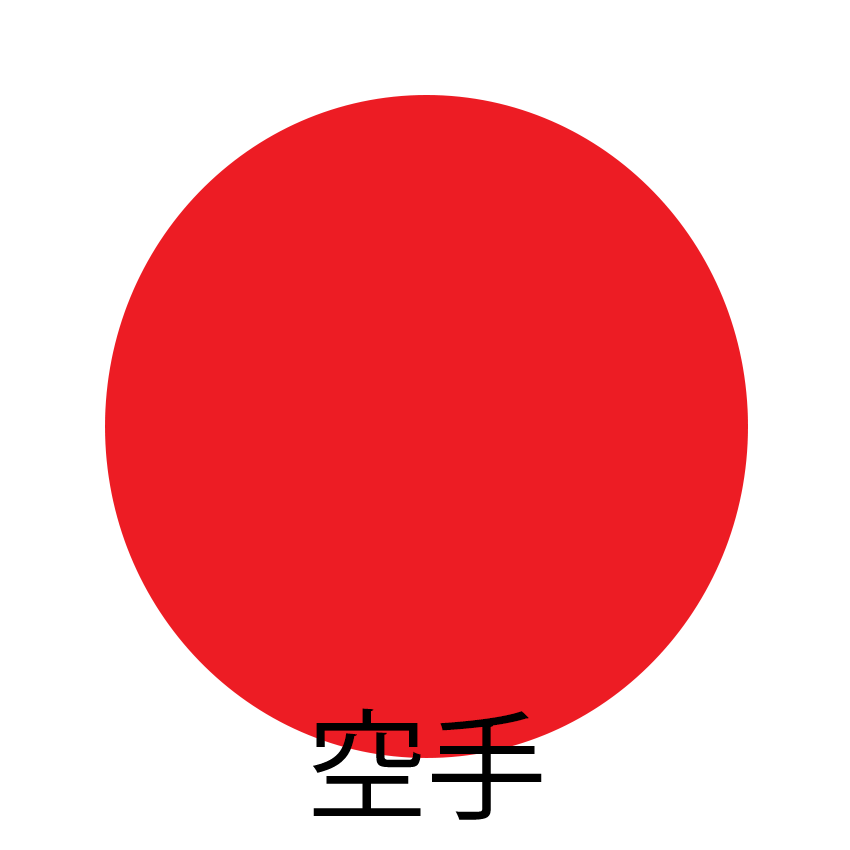
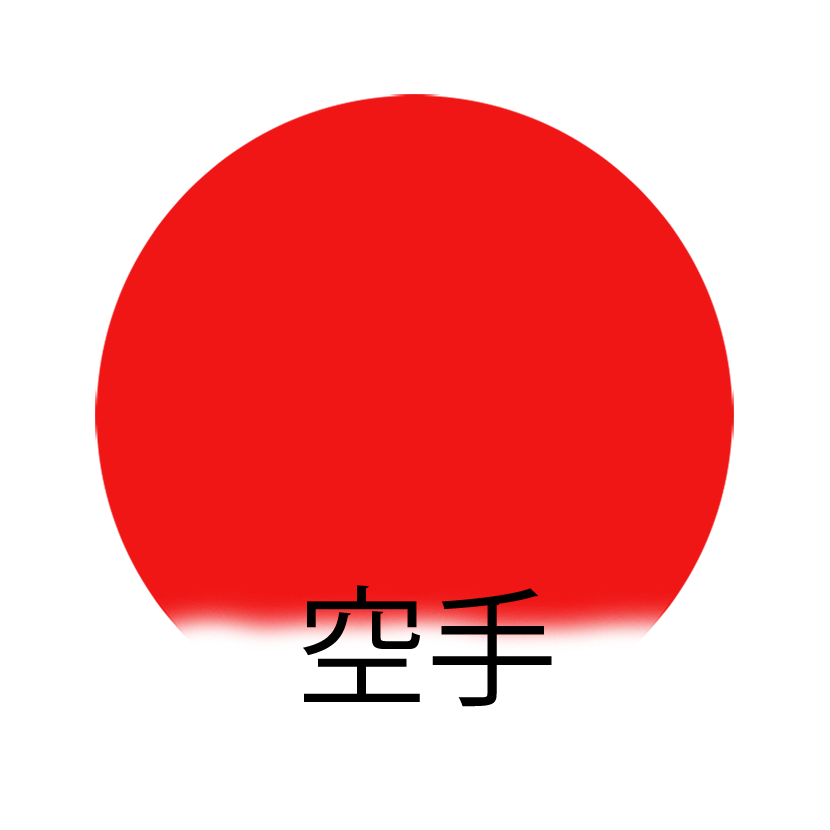
karate talk update

diff --git a/sign/css/style.css b/sign/css/style.css
@@ -2,7 +2,8 @@ html, body {
   height: 100%;
   margin: 0;
   padding: 0;
-   background: -webkit-linear-gradient(-90deg, rgb(237,28,36), white) ;
+   background: -webkit-linear-gradient(-90deg, rgb(255,115,30), white) ;
+   /*red rgb(237,28,36)*/
  /* background: white;*/
  font-family: "Raleway", sans-serif;
   font-weight: 400;
@@ -12,23 +13,54 @@ h1{
 	font-family: "Raleway", sans-serif;
   font-weight: 700;
 	position: fixed;
-	left:300px;
-  font-size:150px;
+	left:425px;
+  font-size:98px;
   letter-spacing:-5px;
-  line-height:3rem;
+  line-height:1rem;
 }
 
+h2{
+  font-family: "Raleway", sans-serif;
+  font-weight: 400;
+  position: fixed;
+  left:430px;
+  top:115px;
+  font-size: 18px;
+  text-align: justify;
+}
+
+h3{
+  font-family: "Raleway", sans-serif;
+  font-weight: 400;
+  position: fixed;
+  left:675px;
+  top:115px;
+  font-size: 18px;
+  text-align: justify;
+
+}
+/*.date{
+  font-family: "Raleway", sans-serif;
+  font-weight: 400;
+  position: absolute;
+  left:700px;
+  top:115px;
+  font-size: 18px;
+  text-align: justify;
+}*/
 
 .firstlink{
   position: absolute;
   top:90px;
-  left:240px;
+  left:252px;
   cursor: pointer;
 }
 
 
 .paragraph1{
 	color:white;
+  font-family: "Raleway", sans-serif;
+  font-weight: 400;
 	position: absolute;
   float: left;
   font-size:18px;
@@ -36,16 +68,22 @@ h1{
   width:540px;
   left:400px;
   text-align: justify;
+  letter-spacing: 1px;
+  line-height: -5px;
 }
 
 .paragraph2{
   color:white;
+  font-family: "Raleway", sans-serif;
+  font-weight: 400;
   position: absolute;
   float: left;
-  top:400px;
+  top:425px;
   font-size:18px;
   width:540px;
   left:400px;
+  letter-spacing: 1px;
+   line-height: -5px;
   text-align: justify;
 }
 
@@ -57,7 +95,6 @@ h1{
 .Uechi1{
   color:black;
   position: fixed;
-  float: left;
   font-size:18px;
   top:100px;
   width:540px;
@@ -68,7 +105,6 @@ h1{
 .Uechi2{
   color:black;
   position: fixed;
-  float: left;
   top:170px;
   font-size:18px;
   width:540px;
@@ -85,13 +121,12 @@ h1{
 .thirdlink{
   position: absolute;
   top: 200px;
-  left:900px;
+  left:1275px;
 }
 
 .Isshin1{
   color:black;
   position: fixed;
-  float: left;
   font-size:18px;
   top:100px;
   width:540px;
@@ -102,7 +137,6 @@ h1{
 .Isshin2{
  color:black;
   position: fixed;
-  float: left;
   top:170px;
   font-size:18px;
   width:540px;
@@ -124,14 +158,13 @@ h1{
 
 .fourthlink{
   position: absolute;
-  top: 20px;
-  left:900px;
+  top: 25px;
+  left:1275px;
 }
 
 .Goju1{
   color:black;
   position: fixed;
-  float: left;
   font-size:18px;
   top:100px;
   width:540px;
@@ -142,7 +175,6 @@ h1{
 .Goju2{
   color:black;
   position: fixed;
-  float: left;
   top:170px;
   font-size:18px;
   width:540px;

diff --git a/sign/index.html b/sign/index.html
@@ -9,13 +9,24 @@
   <link rel="stylesheet" href="css/style.css">
    <script src="https://ajax.googleapis.com/ajax/libs/jquery/3.1.1/jquery.min.js"></script>
     <script src="js/script.js"></script>
+<head>
+<h1>
+Karate Talk
+</h1>
 </head>
 
 <body>
 
-<h1>
-Karate Talk
-</h1>
+<h2>
+Japan Society<br>
+333 East 47th Street<br>
+New York, NY 10017
+</h2>
+
+<h3>
+Saturday, November 7, 2015
+</h3>
+
 
 <!-- link to next page -->
    <div class="firstlink">
@@ -23,7 +34,6 @@ Karate Talk
    <img src ="1.png">
    </a>
 </div>
-
  <!--  paragraph 1 -->
    <div class= "paragraph1">
 <p>

diff --git a/sign/js/script.js b/sign/js/script.js
@@ -1,11 +1,16 @@
 $(document).ready(function() {
 setTimeout(function(){
-$( "body" ).animate({"scrollTop": 250}, 500);
+$( "body" ).animate({"scrollTop": 250}, 5000);
 
 },1000)
 
+ // $( "#book" ).fadeIn( "slow", function() {
+ //    // Animation complete
+ //  });
 
-$(".secondlink").animate({"left":100 }, 3000)
+$(".secondlink").animate({"left":50 }, 2000)
+$(".thirdlink").animate({"left":900 }, 2000)
+$(".fourthlink").animate({"left":900 }, 2000)
 
 
 });

diff --git a/sign/karate1.html b/sign/karate1.html
@@ -11,7 +11,7 @@
     <script src="js/script.js"></script>
 </head>
 
-<body>
+<body1>
 
 <div class="secondlink">
   <a href="karate2.html">
@@ -38,5 +38,5 @@ Originally called Pangai-noon, which translates to English as "half-hard, half-s
 </div>
 
 
-</body>
+</body1ss>
 </html>
